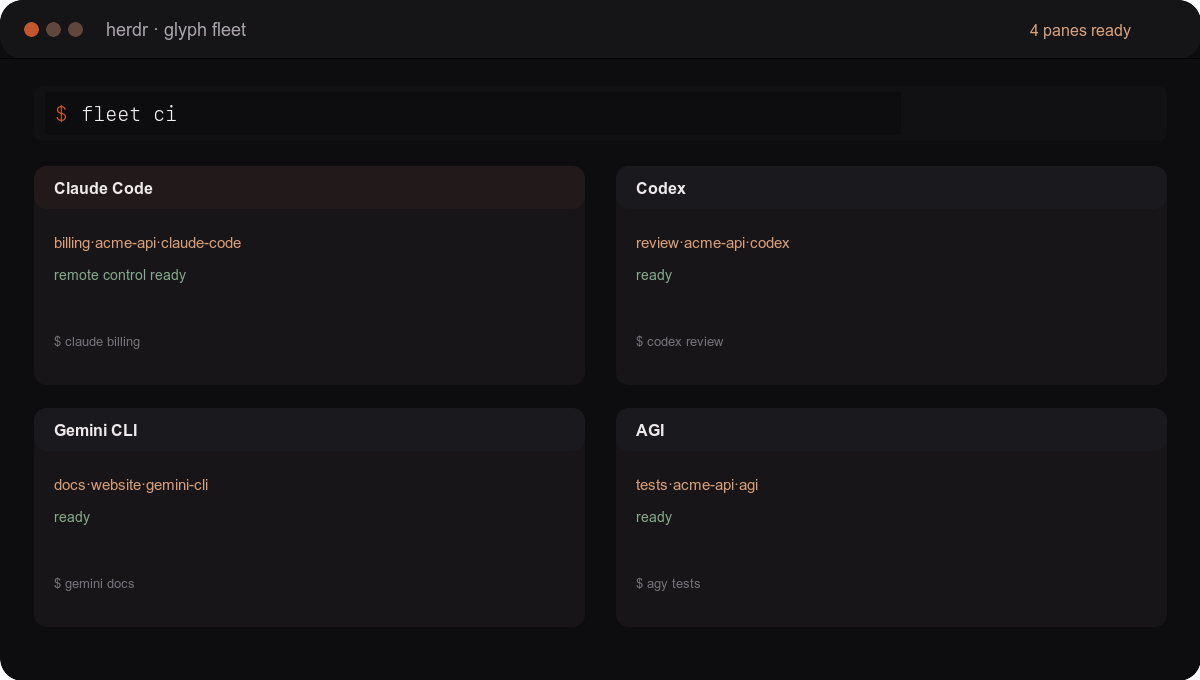
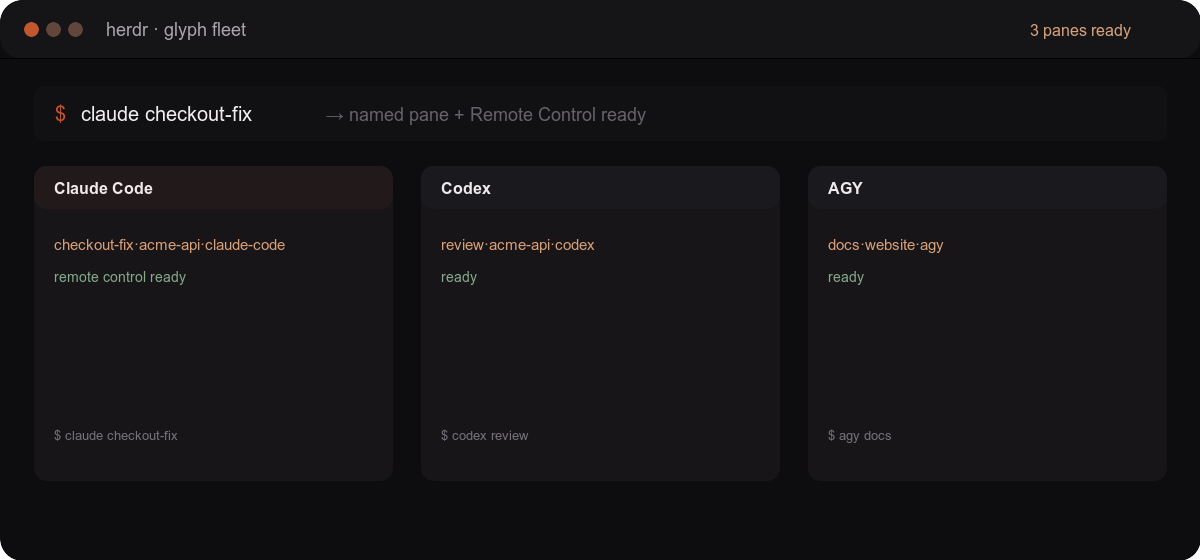
Rename Gemini terminal agent to AGY

diff --git a/docs/index.html b/docs/index.html
@@ -4,12 +4,12 @@
 <meta charset="utf-8">
 <meta name="viewport" content="width=device-width, initial-scale=1">
 <title>glyph — every agent session, named before it starts</title>
-<meta name="description" content="Shell wrapper that names every Claude, Codex and AGI session with lowercase label, project, agent, machine and time tokens before the process starts.">
+<meta name="description" content="Shell wrapper that names every Claude, Codex and AGY session with lowercase label, project, agent, machine and time tokens before the process starts.">
 <link rel="icon" href="favicon.ico" sizes="any">
 <link rel="icon" href="glyph.svg" type="image/svg+xml">
 <link rel="apple-touch-icon" href="apple-touch-icon.png">
 <meta property="og:title" content="glyph — every agent session, named before it starts">
-<meta property="og:description" content="Names every Claude, Codex and AGI session before the process starts.">
+<meta property="og:description" content="Names every Claude, Codex and AGY session before the process starts.">
 <meta property="og:image" content="https://glyph.fru.dev/og.png">
 <meta property="og:url" content="https://glyph.fru.dev/">
 <meta property="og:type" content="website">
@@ -31,12 +31,12 @@
  "downloadUrl":"https://github.com/fru-dev3/glyph",
  "codeRepository":"https://github.com/fru-dev3/glyph",
  "programmingLanguage":"Shell",
- "description":"A zsh wrapper that names every AI coding agent session - Claude, Codex and AGI - with lowercase label, project, agent, machine and time tokens before the process starts.",
+ "description":"A zsh wrapper that names every AI coding agent session - Claude, Codex and AGY - with lowercase label, project, agent, machine and time tokens before the process starts.",
  "license":"https://opensource.org/licenses/MIT",
  "isAccessibleForFree":true,
  "offers":{"@type":"Offer","price":"0","priceCurrency":"USD"},
  "author":{"@type":"Organization","name":"fru.dev","url":"https://fru.dev"},
- "keywords":"Claude, Codex, AGI, tmux, session naming, remote control, AI coding agents, zsh"}
+ "keywords":"Claude, Codex, AGY, tmux, session naming, remote control, AI coding agents, zsh"}
 </script>
 <style>
   :root{
@@ -341,7 +341,7 @@
           <div><span class="prompt">$</span> glyph ls</div>
           <p><strong>checkout-fix</strong>·acme-api·claude-code·macbook-pro·09:12</p>
           <p><strong>review</strong>·docs·codex·ubuntu-studio·09:08</p>
-          <p><strong>fleet-ci</strong>·glyph·agi·windows-dev·09:03</p>
+          <p><strong>fleet-ci</strong>·glyph·agy·windows-dev·09:03</p>
           <div class="cursor">▮</div>
         </div>
       </div>
@@ -356,8 +356,7 @@
       <div class="carousel-head"><span>Launch one agent</span><div role="tablist" aria-label="Agent launch demos">
         <button type="button" class="demo-tab active" data-demo="claude" role="tab" aria-selected="true">Claude Code</button>
         <button type="button" class="demo-tab" data-demo="codex" role="tab" aria-selected="false">Codex</button>
-        <button type="button" class="demo-tab" data-demo="gemini" role="tab" aria-selected="false">Gemini CLI</button>
-        <button type="button" class="demo-tab" data-demo="agi" role="tab" aria-selected="false">AGI</button>
+        <button type="button" class="demo-tab" data-demo="agy" role="tab" aria-selected="false">AGY</button>
       </div></div>
       <img class="fleet-gif" data-demo-image src="demos/claude.gif" alt="Animated Claude Code launch demo">
     </div>
@@ -377,7 +376,7 @@
         <legend>Agent</legend>
         <select id="agent-select" aria-label="Choose an agent">
           <option value="codex">Codex</option>
-          <option value="agy">AGI</option>
+          <option value="agy">AGY</option>
           <option value="claude" selected>Claude</option>
         </select>
       </fieldset>
@@ -422,7 +421,7 @@
         <h3>With glyph</h3>
         <ul>
           <li><strong>checkout-fix</strong>·acme-api·claude-code·mbp·2026-09-12·0556</li>
-          <li><strong>review</strong>·acme-api·agi·mini·2026-09-12·0602</li>
+          <li><strong>review</strong>·acme-api·agy·mini·2026-09-12·0602</li>
           <li><strong>docs</strong>·website·codex·studio·2026-09-12·0611</li>
         </ul>
         <p>Task · project · agent · machine · date · time</p>
@@ -484,7 +483,7 @@
       <article class="agent-card"><h3><img class="" src="agents/codex.png" alt="" width="28" height="28">Codex</h3>
         <span class="agent-kind">Terminal label</span><code>codex checkout-fix</code>
         <details><summary>Auto-approve flag</summary><code>--dangerously-bypass-approvals-and-sandbox</code></details></article>
-      <article class="agent-card"><h3><img class="" src="agents/agi.png" alt="" width="28" height="28">AGI</h3>
+      <article class="agent-card"><h3><img class="" src="agents/agi.png" alt="" width="28" height="28">AGY</h3>
         <span class="agent-kind">Terminal label</span><code>agy checkout-fix</code>
         <details><summary>Auto-approve flag</summary><code>--dangerously-skip-permissions</code></details></article>
       <article class="agent-card"><h3><img class="" src="agents/claude.png" alt="" width="28" height="28">Claude</h3>
@@ -505,9 +504,6 @@
       <article class="agent-card"><h3><img class="monochrome" src="agents/pi.svg" alt="" width="28" height="28">pi</h3>
         <span class="agent-kind">Terminal label</span><code>pi checkout-fix</code>
         <details><summary>Auto-approve flag</summary><code>No extra flag</code></details></article>
-      <article class="agent-card"><h3><img class="" src="agents/gemini.svg" alt="" width="28" height="28">Gemini CLI</h3>
-        <span class="agent-kind">Terminal label</span><code>gemini checkout-fix</code>
-        <details><summary>Auto-approve flag</summary><code>--yolo</code></details></article>
     </div>
     <p class="note">These labels describe what Glyph currently sets. Terminal labels appear in window titles and <code>glyph ls</code>, not inside the agent's conversation list. Fleet adds persistent pane borders. <code>GLYPH_YOLO=1</code> opts into each adapter's auto-approve flag.</p>
   </div>
@@ -515,26 +511,26 @@
   <div class="rule"></div>
   <div class="pad" id="fleet">
     <h2>Glyph Fleet: open agents together</h2>
-    <p class="why-intro">Glyph Fleet opens a saved group of AI agents together in your terminal—one named pane or tab per agent—so Claude, AGI, Codex, and the rest can work side by side.</p>
+    <p class="why-intro">Glyph Fleet opens a saved group of AI agents together in your terminal—one named pane or tab per agent—so Claude Code, Codex, and AGY can work side by side.</p>
     <div class="fleet-preview" aria-label="Example: three panes opened by the ci fleet">
       <div class="fleet-pane"><img src="agents/claude.png" alt=""><b>Claude</b><code>pane 1 · ci · your project</code></div>
-      <div class="fleet-pane"><img src="agents/agi.png" alt=""><b>AGI</b><code>pane 2 · ci · your project</code></div>
+      <div class="fleet-pane"><img src="agents/agi.png" alt=""><b>AGY</b><code>pane 2 · ci · your project</code></div>
       <div class="fleet-pane"><img src="agents/codex.png" alt=""><b>Codex</b><code>pane 3 · ci · your project</code></div>
     </div>
-    <figure class="fleet-static"><img src="fleet-terminal.png" alt="Static terminal screenshot showing Claude Code, Codex, Gemini CLI, and AGI running in named panes"><figcaption>After launch: one workspace, four named agent sessions.</figcaption></figure>
+    <figure class="fleet-static"><img src="fleet-terminal.png" alt="Static terminal screenshot showing Claude Code, Codex, and AGY running in named panes"><figcaption>After launch: one workspace, named agent sessions.</figcaption></figure>
     <div class="fleet-steps">
       <section class="fleet-step">
         <h3>1. Create a fleet once</h3>
         <p>Choose the agents you want to open together. Glyph keeps the group in your local config.</p>
         <div class="code-block"><div class="code-heading"><span>Create your fleets</span><button type="button" class="copy" data-copy="fleet-init" aria-label="Copy fleet setup command">Copy</button></div>
           <pre id="fleet-init">glyph fleet init</pre></div>
-        <p class="note">Adds <code>ci</code> (Claude, AGI, Codex), <code>review</code> (Claude, Codex), and a <code>cloud</code> example. You need tmux and the agent CLIs to launch them.</p>
+        <p class="note">Adds <code>ci</code> (Claude Code, AGY, Codex), <code>review</code> (Claude Code, Codex), and a <code>cloud</code> example. You need tmux and the agent CLIs to launch them.</p>
         <div class="settings"><details><summary>View or customize the config</summary>
           <p>Saved to <code>~/.config/glyph/fleet.conf</code>, or your <code>GLYPH_FLEET_CONF</code> override. Left of <code>=</code> is the fleet name; right is one agent per pane.</p>
           <div class="code-block"><pre>ci = claude agy codex
 review = claude codex
 cloud = claude:studio codex:studio</pre></div>
-          <p>Replace <code>studio</code> with your SSH host before using the cloud example. AGI uses the command <code>agy</code>.</p>
+        <p>Replace <code>studio</code> with your SSH host before using the cloud example. AGY uses the command <code>agy</code>.</p>
         </details></div>
       </section>
       <section class="fleet-step">
@@ -617,7 +613,7 @@ cloud = claude:studio codex:studio</pre></div>
     var raw=lab.value.trim().split(/\s+/)[0]||'';
     var l=esc(token(raw)), p=esc(token(prj.value||'')), a=agentSelect.value;
     var parts=[];
-    var agentName={claude:'claude-code',codex:'codex',agy:'agi'}[a]||a;
+    var agentName={claude:'claude-code',codex:'codex',agy:'agy'}[a]||a;
     if(l) parts.push('<span class="m1">'+l+'</span>');
     if(p && p.toLowerCase()!==l.toLowerCase()) parts.push('<span class="m2">'+p+'</span>');
     parts.push('<span class="m3">'+esc(agentName)+'</span>');
@@ -643,7 +639,7 @@ cloud = claude:studio codex:studio</pre></div>
     }else{
       cm.textContent='$ '+generatedRun;
       nt.innerHTML='Look for this label in the <b>terminal or tmux window title</b> and <b>glyph ls</b>. '+
-        'Glyph does not rename the conversation or app banner inside '+(a==='agy'?'AGI':'Codex')+'. '+
+        'Glyph does not rename the conversation or app banner inside '+(a==='agy'?'AGY':'Codex')+'. '+
         'The app may replace its terminal title after launch. Copying the raw launch command alone does not apply the label; use the command above with Glyph installed.';
     }
   }
@@ -669,8 +665,9 @@ cloud = claude:studio codex:studio</pre></div>
       }
     });
   });
-  var demoImages={claude:'demos/claude.gif',codex:'demos/codex.gif',gemini:'demos/gemini.gif',agy:'demos/agi.gif'};
+  var demoImages={claude:'demos/claude.gif',codex:'demos/codex.gif',agy:'demos/agy.gif'};
   var demoImage=document.querySelector('[data-demo-image]');
+  Object.keys(demoImages).forEach(function(key){var preload=new Image();preload.src=demoImages[key]});
   document.querySelectorAll('[data-demo]').forEach(function(tab){
     tab.addEventListener('click',function(){
       document.querySelectorAll('[data-demo]').forEach(function(item){

diff --git a/README.md b/README.md
@@ -40,7 +40,7 @@ Turn glyph on and the same five read:
 
 ```
 billing·acme-api·claude-code·laptop·2026-09-12·0556     ← MacBook Pro
-migration·acme-api·agi·studio·2026-09-12·0602           ← Mac Studio
+migration·acme-api·agy·studio·2026-09-12·0602           ← Mac Studio
 docs·website·codex·mini·2026-09-12·0611                ← Mac mini
 audit·payments·claude-code·windows·2026-09-11·2247      ← Windows box, via WSL
 scrape·atlas·codex·hetzner·2026-09-12·0640              ← cloud server
